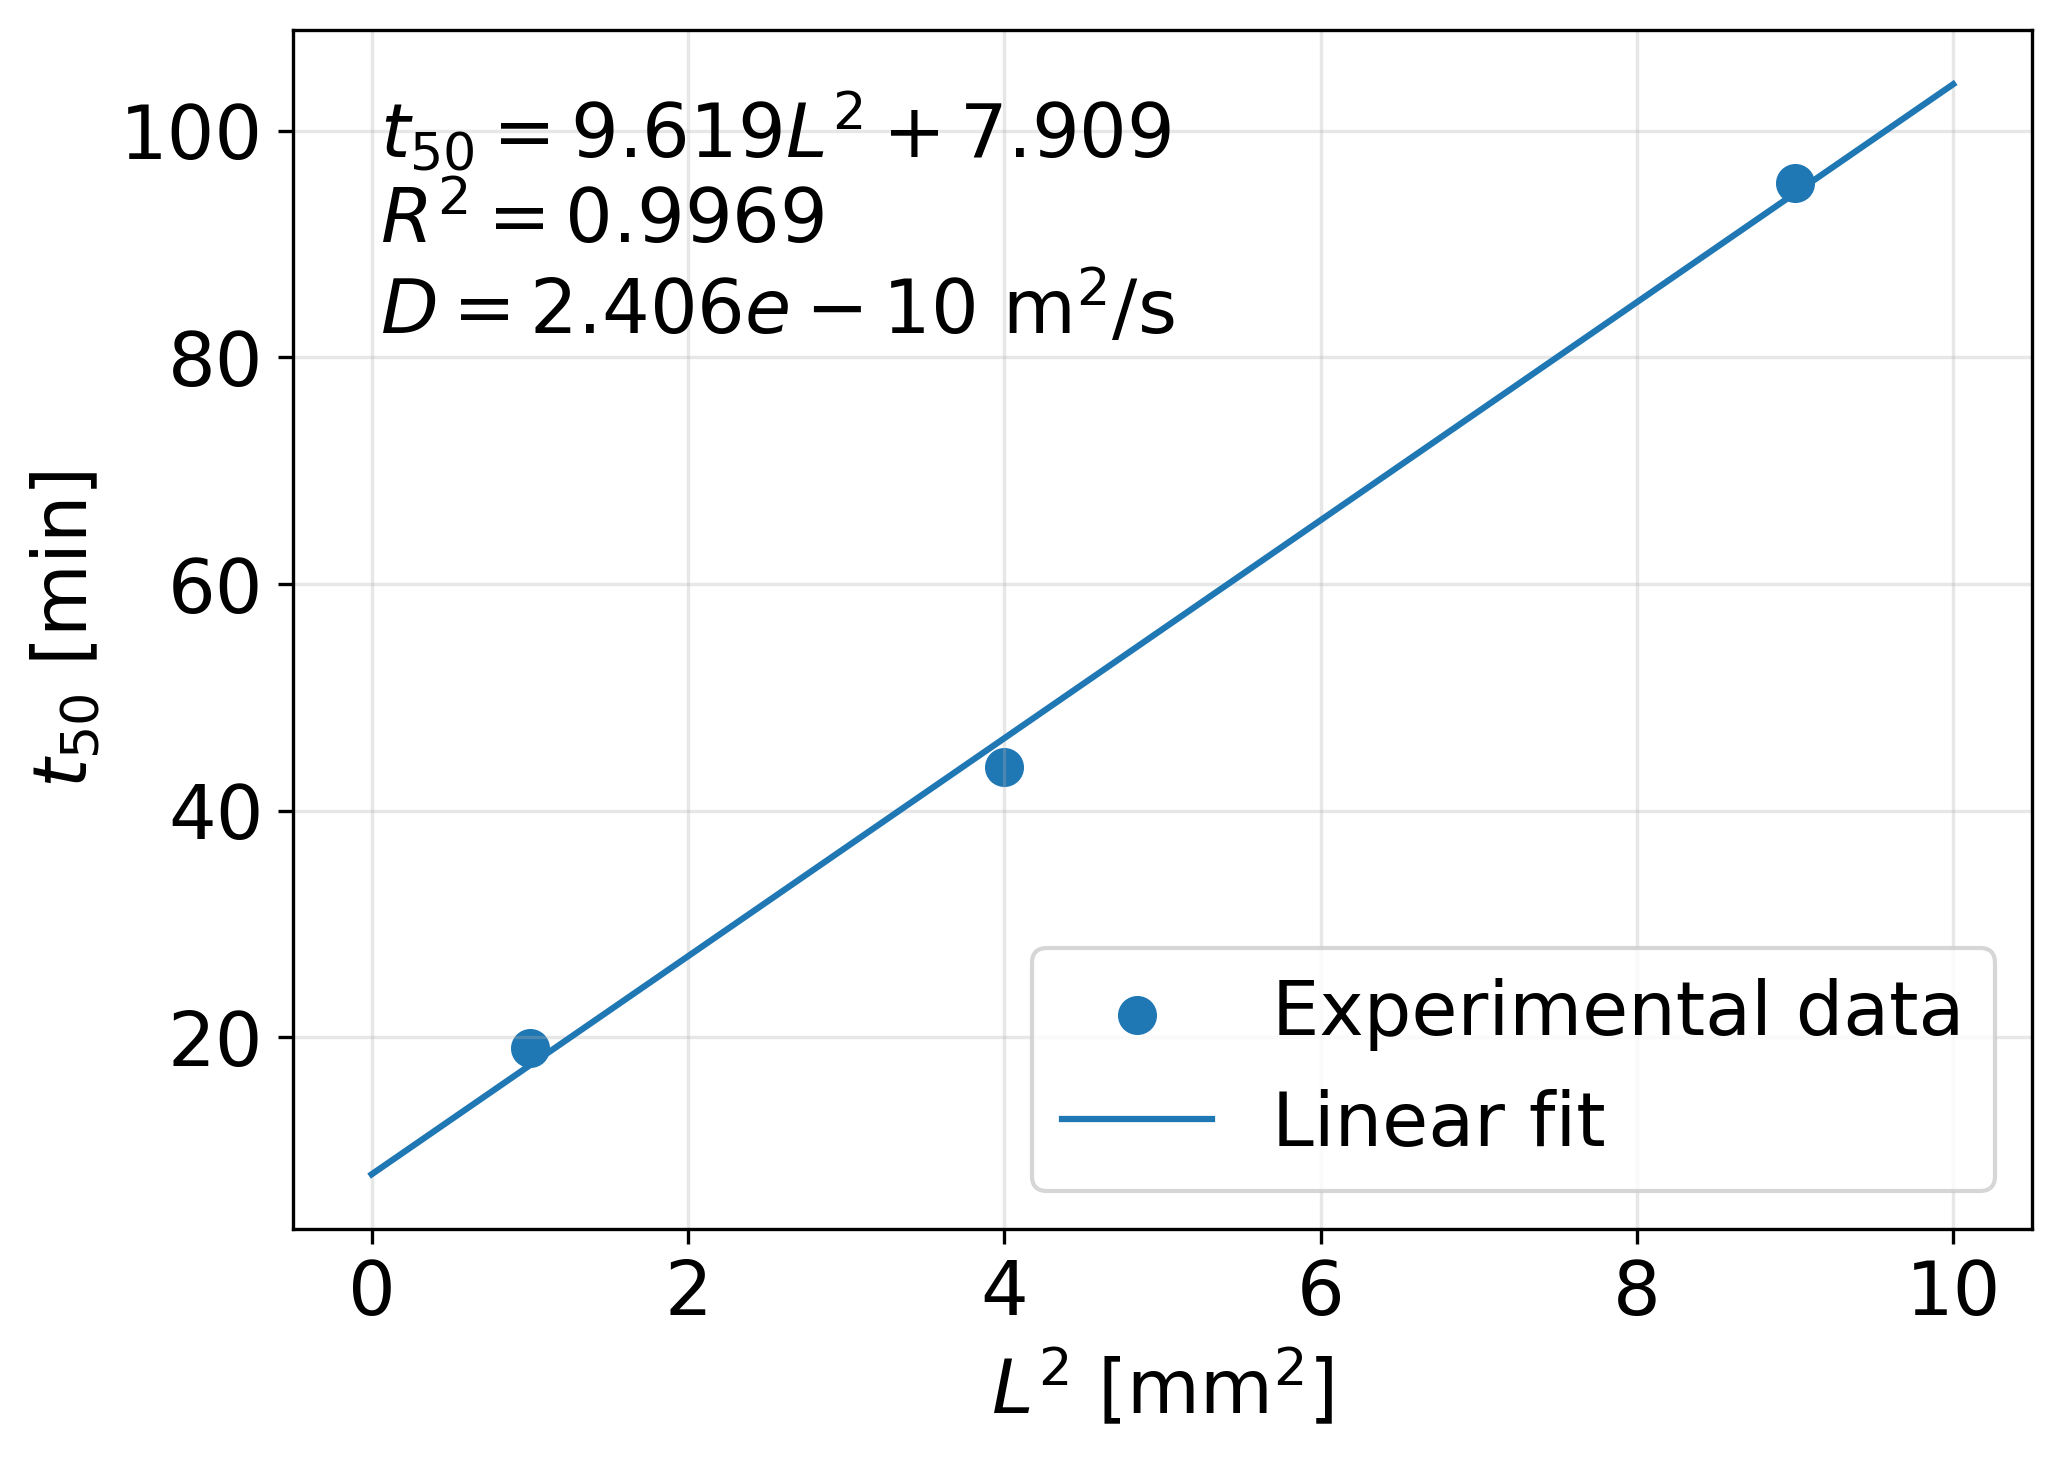
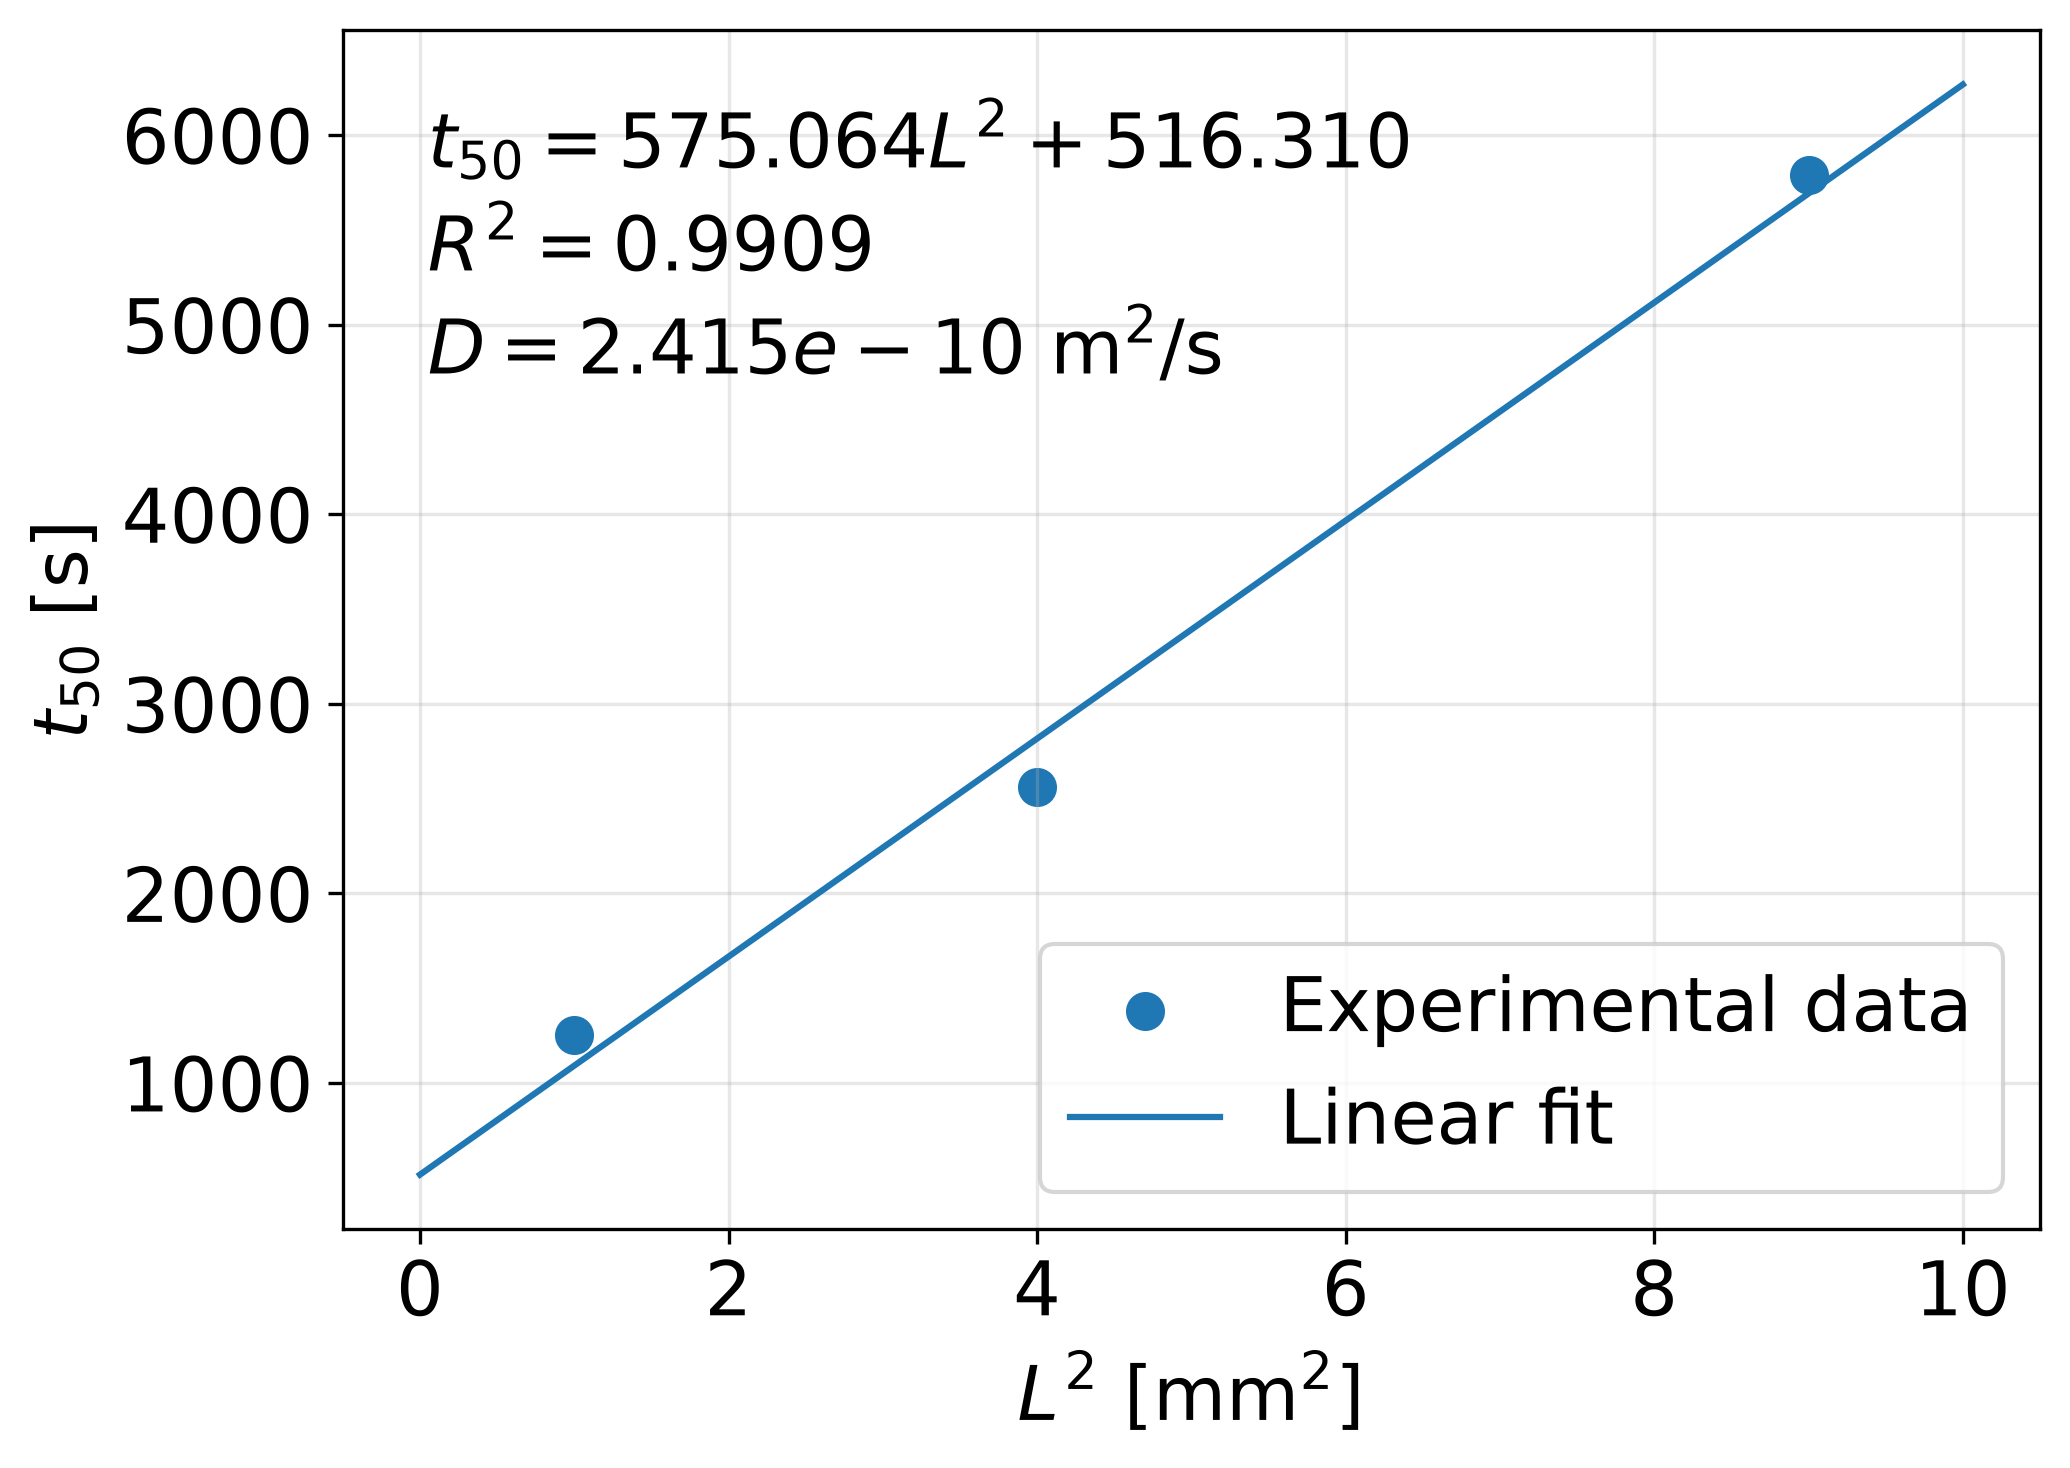
linear regression

diff --git a/Diffusion/t50toL2.py b/Diffusion/t50toL2.py
@@ -8,27 +8,27 @@ from pathlib import Path
 # =========================
 
 # Select "t50" or "time_lag".
-# For time_lag, enter theta values in characteristic_time_min below.
+# For time_lag, enter theta values in characteristic_time_s below.
 ANALYSIS_METHOD = "t50"
 
 # PEEK thickness [mm]
 thickness_mm = np.array([1.0, 2.0, 3.0])
 
-# Characteristic time [min]
+# Characteristic time [s] (enter t50 or theta directly in seconds)
 # t50 method   : enter t50 measured after He introduction
 # time-lag method: enter theta obtained from the time-axis intercept
-characteristic_time_min = np.array([19.089, 43.889, 95.418])
+characteristic_time_s = np.array([1250.32, 2562.25, 5787.25])
 
 if ANALYSIS_METHOD not in {"t50", "time_lag"}:
     raise ValueError('ANALYSIS_METHOD must be "t50" or "time_lag".')
 
-if len(thickness_mm) != len(characteristic_time_min):
+if len(thickness_mm) != len(characteristic_time_s):
     raise ValueError("Thickness and time arrays must have the same length.")
 
 if len(thickness_mm) < 2:
     raise ValueError("At least two thickness-time pairs are required.")
 
-if np.any(thickness_mm <= 0) or np.any(characteristic_time_min <= 0):
+if np.any(thickness_mm <= 0) or np.any(characteristic_time_s <= 0):
     raise ValueError("Thicknesses and characteristic times must be positive.")
 
 if ANALYSIS_METHOD == "time_lag":
@@ -55,7 +55,7 @@ L2_mm2 = thickness_mm ** 2
 # characteristic time = a * L^2 + b
 # =========================
 
-a, b = np.polyfit(L2_mm2, characteristic_time_min, 1)
+a, b = np.polyfit(L2_mm2, characteristic_time_s, 1)
 
 # Predicted values
 time_fit = a * L2_mm2 + b
@@ -65,9 +65,9 @@ time_fit = a * L2_mm2 + b
 # Calculate R^2
 # =========================
 
-ss_res = np.sum((characteristic_time_min - time_fit) ** 2)
+ss_res = np.sum((characteristic_time_s - time_fit) ** 2)
 ss_tot = np.sum(
-    (characteristic_time_min - np.mean(characteristic_time_min)) ** 2
+    (characteristic_time_s - np.mean(characteristic_time_s)) ** 2
 )
 
 r2 = 1 - ss_res / ss_tot
@@ -79,11 +79,11 @@ r2 = 1 - ss_res / ss_tot
 
 # t50 method    : D = L^2 / (7.2 * t50)
 # time-lag method: D = L^2 / (6 * theta)
-# The fitted slope a has units min/mm^2. Convert mm^2 to m^2 and min to s.
+# The fitted slope a has units s/mm^2. Convert mm^2 to m^2.
 if a <= 0:
     raise ValueError("The fitted slope must be positive to calculate D.")
 
-D_from_slope = 1e-6 / (method_factor * a * 60.0)
+D_from_slope = 1e-6 / (method_factor * a)
 
 
 # =========================
@@ -103,7 +103,7 @@ plt.figure(figsize=(7, 5))
 # Experimental points
 plt.scatter(
     L2_mm2,
-    characteristic_time_min,
+    characteristic_time_s,
     s=70,
     label="Experimental data"
 )
@@ -121,7 +121,7 @@ plt.plot(
 # =========================
 
 plt.xlabel(r"$L^2$ [mm$^2$]", fontsize=18)
-plt.ylabel(rf"${time_symbol}$ [min]", fontsize=18)
+plt.ylabel(rf"${time_symbol}$ [s]", fontsize=18)
 plt.tick_params(axis="both", labelsize=18)
 
 plt.grid(alpha=0.3)
@@ -171,8 +171,8 @@ plt.show()
 # Print results
 # =========================
 
-print(f"Slope = {a:.6f} min/mm^2")
-print(f"Intercept = {b:.6f} min")
+print(f"Slope = {a:.6f} s/mm^2")
+print(f"Intercept = {b:.6f} s")
 print(f"R^2 = {r2:.6f}")
 print(f"Method = {method_name}")
 print(f"D from slope = {D_from_slope:.6e} m^2/s")
